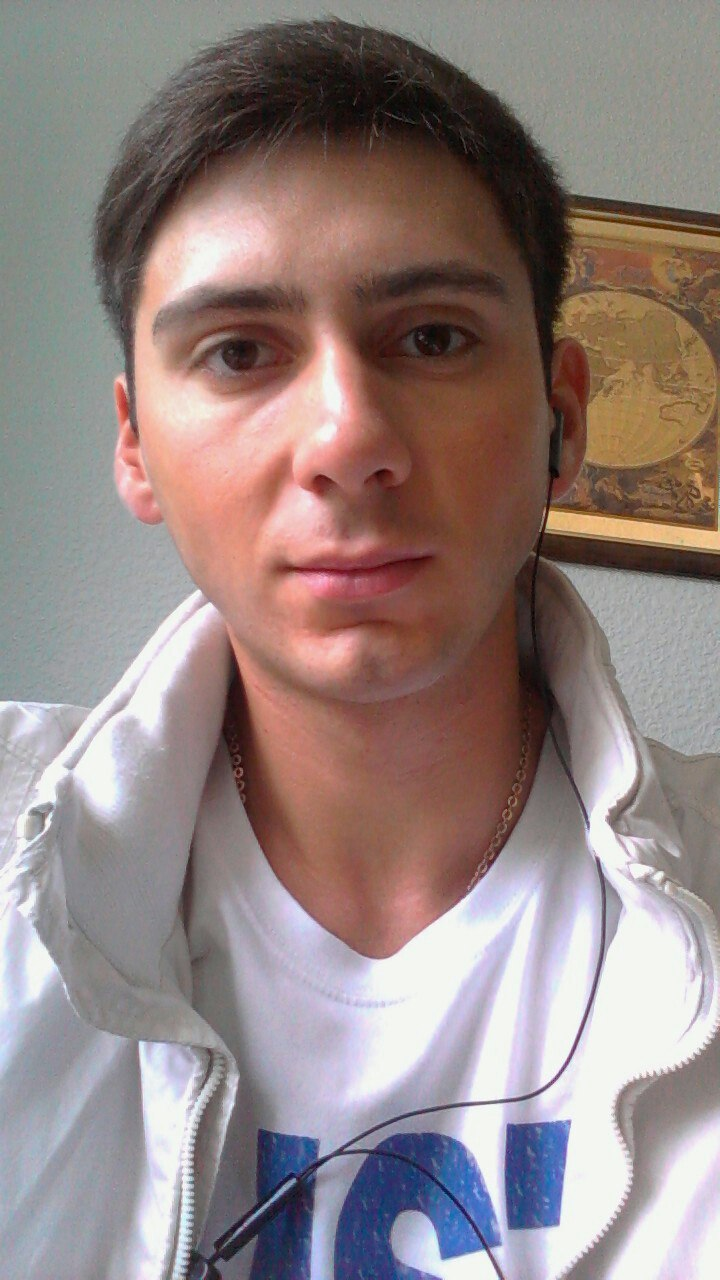
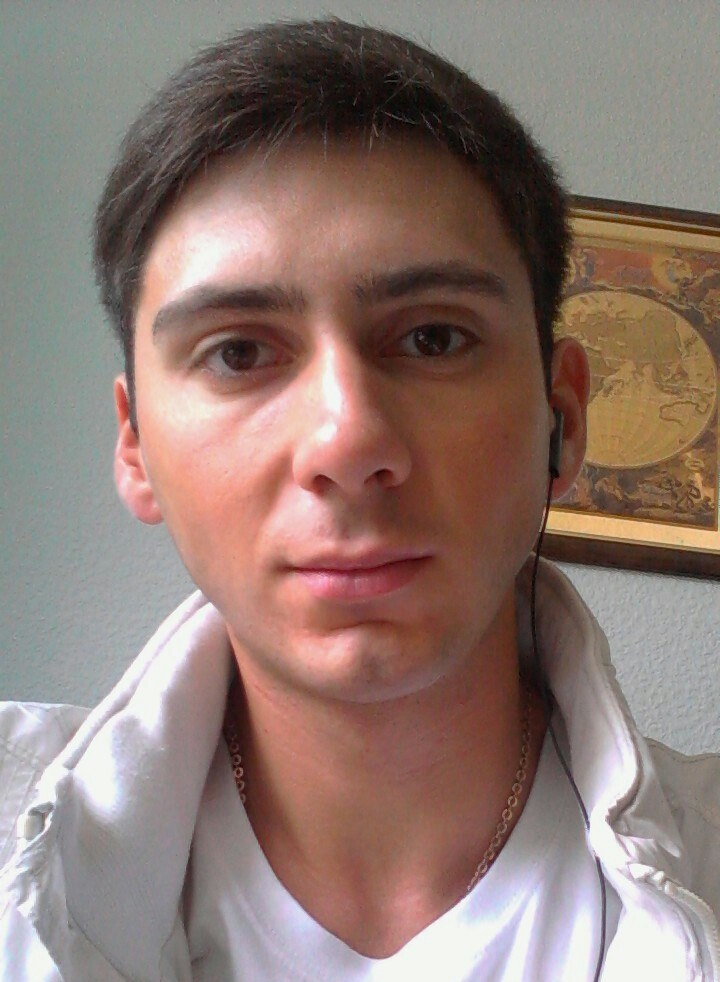
fixed DZ1

diff --git a/DZ1/index_dz1.html b/DZ1/index_dz1.html
@@ -6,34 +6,42 @@
   <link rel="stylesheet" href="CSS/style_dz1.css">
 </head>
    <body>
-   <div class="main_page">
-        <div class="into_page">
-         <h2 class="h2_text">Сапегин Вячеслав Юрьевич</h2>
-            <p class="image"> <img src="img/image1.jpg" height="320" width="180" alt="это я" title="Вячеслав"></p>
-            <p>Выпускник Донецкого Национального Технического Университета</p>
-            <hr>
-            <p>Хочу учить Frontend потому что:</p>
-            <ul>
-            <li>Это развитие.</li>
-            <li>Шаг вперед.</li>
-            <li>Новые перспективы.</li>
-            <li>Возможность стать лучше.</li>
-            </ul>
-            <hr>
-            <p>Мой контактный телефон: 
-            <br>
-            +38(095)516-13-29
-            </p>
-            <p>Мой профиль Вконтакте:
-            <br>
-            <a href="http://vk.com/id24154492" target="_blank">vk.com</a>
-            </p>
-            <hr>
-            <p>Мой фидбек: 
-            <br>
-            Если нужно, могу построить Вам забор
-            </p>
-        </div>    
-   </div>
+     <div class="main_page">
+       <div class="into_page">
+        <h2>Сапегин Вячеслав Юрьевич</h2>
+          <div class="image">
+              <p>
+                <img src="img/image1.jpg" height="245.5" width="180" alt="это я" title="Вячеслав">
+              </p>
+           </div>
+           <p>
+             Выпускник Донецкого Национального Технического Университета
+           </p>
+           <hr>
+           <p>
+             Хочу учить Frontend потому что:
+           </p>
+           <ul>
+             <li>Это развитие.</li>
+             <li>Шаг вперед.</li>
+             <li>Новые перспективы.</li>
+             <li>Возможность стать лучше.</li>
+           </ul>
+           <hr>
+           <p>Мой контактный телефон: 
+             <br>
+               +38(095)516-13-29
+           </p>
+           <p>Мой профиль Вконтакте:
+             <br>
+               <a href="http://vk.com/id24154492" target="_blank">vk.com</a>
+           </p>
+           <hr>
+           <p>Мой фидбек: 
+             <br>
+               Если нужно, могу построить Вам забор
+           </p>
+       </div>    
+     </div>
    </body>
 </html>
